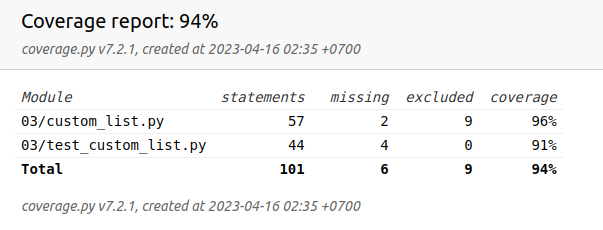
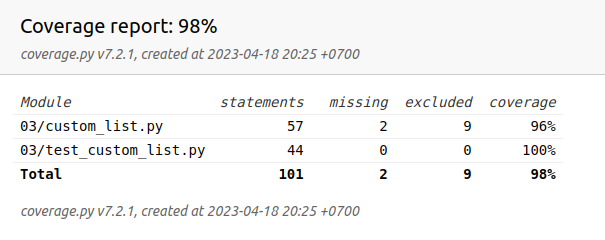
Fix compare lists

diff --git a/03/test_custom_list.py b/03/test_custom_list.py
@@ -73,14 +73,16 @@ def test_custom_list_add(
 ):
     test_result = first_operand + second_operand
     assert test_result == result
-    is_equal = True
-    for index, item in enumerate(test_result):
-        if item != result[index]:
-            is_equal = False
-            break
-    assert is_equal
+    assert len(test_result) == len(result)
+    assert all(item == result[index] for index, item in enumerate(test_result))
+
     assert copy_first_operand == first_operand
+    assert len(copy_first_operand) == len(first_operand)
+    assert all(item == first_operand[index] for index, item in enumerate(copy_first_operand))
+
     assert copy_second_operand == second_operand
+    assert len(copy_second_operand) == len(second_operand)
+    assert all(item == second_operand[index] for index, item in enumerate(copy_second_operand))
 
 
 @pytest.mark.parametrize(
@@ -191,14 +193,16 @@ def test_custom_list_sub(
 ):
     test_result = first_operand - second_operand
     assert test_result == result
-    is_equal = True
-    for index, item in enumerate(test_result):
-        if item != result[index]:
-            is_equal = False
-            break
-    assert is_equal
+    assert len(test_result) == len(result)
+    assert all(item == result[index] for index, item in enumerate(test_result))
+
     assert copy_first_operand == first_operand
+    assert len(copy_first_operand) == len(first_operand)
+    assert all(item == first_operand[index] for index, item in enumerate(copy_first_operand))
+
     assert copy_second_operand == second_operand
+    assert len(copy_second_operand) == len(second_operand)
+    assert all(item == second_operand[index] for index, item in enumerate(copy_second_operand))
 
 
 @pytest.mark.parametrize(

diff --git a/06/server.py b/06/server.py
@@ -1,0 +1,37 @@
+import argparse
+import socket
+
+HOST = "127.0.0.1"
+PORT = 65432
+
+
+def main():
+    parser = argparse.ArgumentParser(
+        description="Сбор параметров для сервера",
+    )
+    parser.add_argument(
+        "workers",
+        type=int,
+        help="Количество воркеров",
+    )
+    parser.add_argument(
+        "count_words",
+        type=int,
+        help="Количество слов",
+    )
+    args = parser.parse_args()
+    with socket.socket(socket.AF_INET, socket.SOCK_STREAM) as s:
+        s.bind((HOST, PORT))
+        s.listen()
+        conn, addr = s.accept()
+        with conn:
+            print(f"Connected by {addr}")
+            while True:
+                data = conn.recv(1024)
+                if not data:
+                    break
+                conn.sendall(data)
+
+
+if __name__ == "__main__":
+    main()

diff --git a/06/client.py b/06/client.py
@@ -1,0 +1,33 @@
+import argparse
+import socket
+
+HOST = "127.0.0.1"
+PORT = 65432
+
+
+def main():
+    parser = argparse.ArgumentParser(
+        description="Сбор параметров для клиента",
+    )
+    parser.add_argument(
+        "threads",
+        type=int,
+        help="Количество потоков",
+    )
+    parser.add_argument(
+        "path",
+        type=str,
+        help="Путь к файлу",
+    )
+    args = parser.parse_args()
+    urls = []
+    with open(args.path, "r", encoding="utf-8") as file:
+        urls = file.readlines()
+    with socket.socket(socket.AF_INET, socket.SOCK_STREAM) as s:
+        s.connect((HOST, PORT))
+        s.sendall(b"Hello, world")
+        data = s.recv(8192)
+
+
+if __name__ == "__main__":
+    main()
